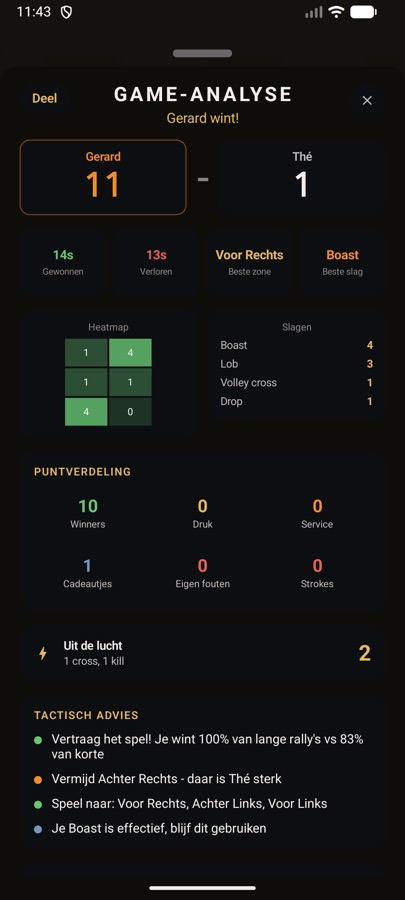
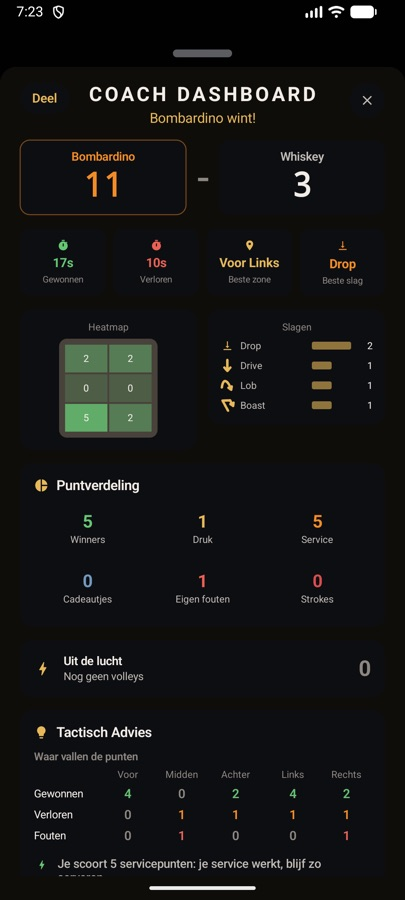
chore: build 16, release notes and manual for this build

diff --git a/website/handleiding/android.html b/website/handleiding/android.html
@@ -76,9 +76,9 @@
         <p class="where">Elke rally vastleggen: wie scoort, hoe, waar en met welke slag</p>
 
         <h3>Een wedstrijd starten of hervatten</h3>
-        <p>Loopt er nog een wedstrijd, dan zie je eerst <span class="ui">Wedstrijd hervatten</span> met de stand. Kies <span class="ui">Hervatten</span>, of <span class="ui">Nieuwe wedstrijd</span> (de oude wordt dan als afgebroken bewaard).</p>
+        <p>Loopt er nog een wedstrijd, dan vraagt de app eerst <span class="ui">Wedstrijd hervatten?</span> met de stand. Kies <span class="ui">Hervatten</span>, <span class="ui">Nieuwe wedstrijd</span> (de oude komt als incompleet in Afgeronde wedstrijden) of <span class="ui">Annuleren</span>.</p>
         <ol>
-          <li>Vul bij <span class="ui">Speler 1</span> en <span class="ui">Speler 2</span> een naam in, of tik op <span class="ui">Kies speler</span> om een opgeslagen speler te kiezen. Je ziet dan meteen de aandachtspunten van die speler. Alleen gekozen spelers kunnen <a href="#badges">badges</a> verdienen.</li>
+          <li>Vul bij <span class="ui">Speler 1</span> en <span class="ui">Speler 2</span> een naam in, of tik op <span class="ui">Kies speler</span> om een opgeslagen speler te kiezen (met <span class="ui">Nieuwe speler</span> voeg je er direct een toe). In de coachmodus zie je meteen de aandachtspunten van die speler. Alleen gekozen spelers kunnen <a href="#badges">badges</a> verdienen. Met het spelersicoon rechtsboven bewerk je je spelers.</li>
           <li>Kies bij <span class="ui">Wie serveert eerst?</span> de serveerder.</li>
           <li>Kom je later binnen? Tik op <span class="ui">Later instappen?</span> en vul met − en + in hoeveel games ieder al gewonnen heeft.</li>
           <li>Tik op <span class="ui">Start</span>. Er wordt gespeeld tot drie gewonnen games (best of 5).</li>
@@ -102,15 +102,16 @@
         </ul>
 
         <h3>Game en wedstrijd klaar</h3>
-        <p>Na een game verschijnen <span class="ui">Analyse</span> en <span class="ui">Volgende game</span>. Na de laatste game zie je de winnaar, de verdiende <strong>badges</strong>, <span class="ui">Analyse</span>, <span class="ui">Deel score</span> (Kort, Scorekaart of Verslag, bijvoorbeeld voor WhatsApp) en <span class="ui">Klaar</span>.</p>
+        <p>Aan het eind van een game zie je de uitslag met de knoppen <span class="ui">Analyse</span>, <span class="ui">Deel score</span>, <span class="ui">Volgende game</span>, <span class="ui">Undo laatste punt</span> en <span class="ui">Stop wedstrijd</span>. Na de laatste game zie je ook welke <strong>badges</strong> er verdiend zijn (tik erop voor uitleg) en start je met <span class="ui">Nieuwe wedstrijd</span> een volgende.</p>
+        <p><span class="ui">Deel score</span> maakt een tekst voor bijvoorbeeld WhatsApp: <em>Kort</em>, <em>Scorekaart</em> of <em>Verslag</em>, met een voorbeeld zoals het in de chat verschijnt.</p>
 
         <h3>Analyse en AI Coach</h3>
-        <p>De game-analyse toont per speler en per game: gemiddelde rallyduur bij winst en verlies, beste zone en slag, een <strong>heatmap</strong> van de baan, de meest gebruikte slagen (een volley staat apart, zoals <em>Volley cross</em>), de puntverdeling, het aantal punten <strong>uit de lucht</strong> en tactisch advies. Met <span class="ui">Deel</span> stuur je een samenvatting.</p>
+        <p>Het <strong>coach dashboard</strong> toont per speler en per game: gemiddelde rallyduur bij winst en verlies, beste zone en slag, een <strong>heatmap</strong> van de baan, de meest gebruikte slagen (een volley staat apart, zoals <em>Volley cross</em>), de puntverdeling, het aantal punten <strong>uit de lucht</strong> en tactisch advies. Met <span class="ui">Deel</span> stuur je een samenvatting.</p>
         <p>Bovenaan het tactisch advies staat <strong>Waar vallen de punten</strong>: per rij (voor, midden, achter) en kant (links, rechts) hoeveel punten de speler won, verloor en zelf weggaf. Daarop is het advies gebaseerd: hooguit 5 regels, met eerst wat de meeste punten kan opleveren. Zie je hetzelfde ook in een eerdere game, dan staat er bijvoorbeeld <em>Net als in game 1</em>.</p>
         <p>Heb je een OpenAI-sleutel ingesteld, dan geeft <span class="ui">Vraag AI Coach om advies</span> een uitgebreide analyse. Er gaan geen namen mee, alleen cijfers. De app kiest zelf het goedkoopste model dat met je sleutel beschikbaar is. Zonder sleutel zie je dit blok niet.</p>
 
         <h3>Stoppen</h3>
-        <p>Tik op <span class="ui">Stop</span> en kies:</p>
+        <p>Tik op <span class="ui">Stop</span>. Is de wedstrijd klaar, dan wordt hij bewaard. Is er nog niets gespeeld, dan verdwijnt hij. Anders kies je:</p>
         <ul>
           <li><span class="ui">Bewaar en ga later verder</span>: de wedstrijd blijft bewaard, je gaat later verder via de Coach-tegel.</li>
           <li><span class="ui">Opslaan als incompleet</span>: de wedstrijd komt in <a href="#wedstrijden">Afgeronde wedstrijden</a> met het label INCOMPLEET.</li>
@@ -134,7 +135,7 @@
         <h2><span class="icon">🏆</span>Scheidsrechter</h2>
         <p class="where">Snel en officieel scoren, met de serviceregels</p>
         <h3>Starten of hervatten</h3>
-        <p>Net als bij Coach: een lopende wedstrijd kun je <span class="ui">Hervatten</span>. Voor een nieuwe vul je de namen in of gebruik je <span class="ui">Kies speler</span>, kies je wie eerst serveert en eventueel <span class="ui">Later instappen?</span>, en tik je op <span class="ui">Start</span>.</p>
+        <p>Net als bij Coach: een lopende wedstrijd kun je <span class="ui">Hervatten</span>. Voor een nieuwe vul je de namen in of gebruik je <span class="ui">Kies speler</span>, kies je wie eerst serveert en eventueel <span class="ui">Later instappen?</span>, en tik je op <span class="ui">Start scheidsrechter</span>.</p>
         <h3>Scoren</h3>
         <ul>
           <li><strong>Tik op de grote score</strong> (<em>tik = punt</em>) van wie de rally wint.</li>
@@ -145,7 +146,7 @@
           <li>Met het deel-icoon rechtsboven deel je de tussenstand.</li>
         </ul>
         <h3>Game en wedstrijd klaar</h3>
-        <p>Na een game tik je op <span class="ui">Volgende game</span>. Na de wedstrijd zie je de winnaar, de verdiende badges en <span class="ui">Deel score</span>.</p>
+        <p>Na een game zie je de stand en duur, met <span class="ui">Volgende game</span>, <span class="ui">Undo laatste punt</span> en <span class="ui">Bekijk stand</span>. Na de wedstrijd: de winnaar, de uitslag per game, verdiende badges, <span class="ui">Deel score</span> en <span class="ui">Sluiten</span>. Undo werkt na hervatten ook weer voor de lopende game.</p>
         <div class="note">Na elke rally wordt de wedstrijd bewaard. Sluit je halverwege, dan ga je later verder via de Scheidsrechter-tegel.</div>
       </div>
       <div class="shots">
@@ -160,10 +161,11 @@
         <p class="where">Alles terugkijken, delen en opruimen</p>
         <ul>
           <li>Filter op <span class="ui">Alles</span>, <span class="ui">Coach</span> of <span class="ui">Scheidsrechter</span>, en via <span class="ui">Alle spelers</span> op één speler.</li>
-          <li>Tik op een coachwedstrijd of op <span class="ui">Bekijk analyse</span> voor de game-analyse.</li>
+          <li>Coach- en scheidsrechterwedstrijden staan onder eigen kopjes, met de winnaar, de uitslag per game en een medaille als er een badge is verdiend.</li>
+          <li>Tik op een coachwedstrijd of op <span class="ui">Bekijk analyse</span> voor het coach dashboard.</li>
           <li><span class="ui">Delen</span> maakt een tekst voor bijvoorbeeld WhatsApp: kort, scorekaart of verslag.</li>
           <li>Niet afgemaakt? Dan staat er <strong>INCOMPLEET</strong> bij en vul je met <span class="ui">Uitslag aanvullen</span> in wie de resterende games won.</li>
-          <li>Met de prullenbak verwijder je een wedstrijd. Verdiende badges worden dan als verwijderd gemarkeerd.</li>
+          <li>Met de prullenbak verwijder je een wedstrijd.</li>
         </ul>
         <p>Een lopende wedstrijd vind je niet hier, maar via de Coach- of Scheidsrechter-tegel. Back-ups maak en zet je terug in <a href="#instellingen">Instellingen</a>.</p>
       </div>
@@ -179,16 +181,18 @@
         <p class="where">Je vaste spelers, met foto, aandachtspunten en badges</p>
         <h3>Spelers toevoegen en bewerken</h3>
         <ul>
-          <li>Tik op <span class="ui">Toevoegen</span>: een foto (<span class="ui">Kies foto</span>), naam, <strong>coaching focus</strong> (zoals Backhand of Conditie) en notities, dan <span class="ui">Opslaan</span>.</li>
-          <li>Het potlood bewerkt, de prullenbak verwijdert. Gespeelde wedstrijden blijven bewaard.</li>
+          <li>De app begint met twee voorbeeldspelers, <strong>Bombardino</strong> en <strong>Whiskey</strong>, om meteen te proberen. Verwijder ze gerust; ze komen niet terug.</li>
+          <li>Tik op <span class="ui">Toevoegen</span>: tik op de avatar voor een foto, vul naam, <strong>coaching focus</strong> (zoals Backhand of Conditie) en notities in, dan <span class="ui">Opslaan</span>.</li>
+          <li>Het potlood bewerkt, de prullenbak verwijdert; lang indrukken geeft hetzelfde menu. Gespeelde wedstrijden blijven bewaard.</li>
+          <li>De medaille rechtsboven toont alle badges.</li>
           <li>Tik op een speler om de badges van die speler te zien.</li>
         </ul>
         <h3>Een heel team importeren</h3>
         <p>Tik op <span class="ui">Team</span> en plak de teamlink die je hebt gekregen (<em>https://squashanalyzer.com/teams/…</em>), of tik op <span class="ui">Kies zip-bestand</span> voor een team-zip op je telefoon. Spelers met dezelfde naam worden bijgewerkt, nieuwe worden toegevoegd.</p>
         <h3>Badges van een speler</h3>
-        <p>Je ziet hoeveel badges de speler verdiende en alle 31 badges: verdiende in kleur met hoe vaak, de rest grijs met hoe je ze verdient. Tik op een verdiende badge voor de momenten (tegen wie en wanneer); met <span class="ui">Verwijder</span> haal je er een weg.</p>
+        <p>Je ziet hoeveel badges de speler verdiende en alle 31 badges: verdiende in kleur met hoe vaak, de rest grijs met hoe je ze verdient. Tik op een badge voor de momenten (tegen wie en wanneer); veeg een moment naar links om het te verwijderen.</p>
         <h3>Spelerskaart delen en ontvangen</h3>
-        <p>Tik in de badges van een speler op <span class="ui">Deel kaart</span>: je deelt een link naar de kaart. Krijg je zelf zo'n link, open hem dan op je telefoon. De app vraagt of je de kaart koppelt aan een <span class="ui">Nieuwe speler</span> of aan een bestaande speler. Deel een kaart alleen met toestemming van de speler.</p>
+        <p>Tik onderaan de badges van een speler op <span class="ui">Deel kaart</span>: je deelt een afbeelding met een link naar de kaart. Krijg je zelf zo'n link, open hem dan op je telefoon. De app vraagt of je de kaart koppelt aan een <span class="ui">Nieuwe speler</span> of aan een bestaande speler. Deel een kaart alleen met toestemming van de speler.</p>
       </div>
       <div class="shots">
         <figure><img src="img/android/spelers.jpg" alt="Spelerslijst" loading="lazy"><figcaption>Spelers</figcaption></figure>

diff --git a/website/handleiding/iphone.html b/website/handleiding/iphone.html
@@ -63,7 +63,7 @@
           <li>Open <a href="#instellingen">Instellingen</a> en plak bij <span class="ui">Mijn team</span> de openbare teamlink (zoals <em>https://sbn.toernooi.nl/league/…/team/…</em>).</li>
           <li>Tik op <span class="ui">Bewaar teamlink</span>. De kaart verschijnt op het beginscherm.</li>
         </ol>
-        <p>De kaart toont je <strong>stand</strong>, <strong>gespeelde wedstrijden</strong>, <strong>punten</strong> en de volgende wedstrijd. Tik op de kaart voor het hele overzicht: de stand van de poule, alle wedstrijden met uitslag en de spelers van je team.</p>
+        <p>De kaart toont je <strong>stand</strong>, <strong>gespeelde wedstrijden</strong>, <strong>punten</strong> en de volgende wedstrijd met datum. Tik op de kaart voor het hele overzicht: de stand van de poule, alle wedstrijden met uitslag en de spelers van je team.</p>
         <p>Lukt ophalen even niet, dan zie je de laatst opgehaalde stand of een knop <span class="ui">Opnieuw</span>.</p>
       </div>
       <div class="shots"></div>
@@ -112,8 +112,8 @@
 
         <h3>Stoppen en hervatten</h3>
         <ul>
-          <li>Tik op <span class="ui">Stop</span>. Is er nog niets gespeeld, dan verdwijnt de wedstrijd. Anders kies je: <span class="ui">Opslaan als incompleet</span>, <span class="ui">Uitslag aanvullen</span> (vul in wie de resterende games won), <span class="ui">Niet opslaan</span> of <span class="ui">Doorspelen</span>.</li>
-          <li>Sluit je de app midden in een wedstrijd, dan vraagt hij bij de volgende start <span class="ui">Wedstrijd hervatten?</span></li>
+          <li>Tik op <span class="ui">Stop</span>. Is de wedstrijd klaar, dan wordt hij bewaard. Is er nog niets gespeeld, dan verdwijnt hij. Anders kies je: <span class="ui">Bewaar en ga later verder</span>, <span class="ui">Opslaan als incompleet</span>, <span class="ui">Uitslag aanvullen</span> (vul in wie de resterende games won; daarna start je een nieuwe wedstrijd), <span class="ui">Niet opslaan</span> of <span class="ui">Doorspelen</span>.</li>
+          <li>Tik je op de Coach-tegel terwijl er nog een wedstrijd loopt, dan vraagt de app <span class="ui">Wedstrijd hervatten?</span>: <span class="ui">Hervatten</span>, <span class="ui">Nieuwe wedstrijd</span> (de oude komt als incompleet in Afgeronde wedstrijden) of <span class="ui">Annuleren</span>.</li>
         </ul>
       </div>
       <div class="shots">
@@ -142,7 +142,8 @@
           <li>Met het deel-icoon rechtsboven deel je de tussenstand.</li>
         </ul>
         <h3>Game en wedstrijd klaar</h3>
-        <p>Na een game zie je de stand en duur, met <span class="ui">Volgende game</span>, <span class="ui">Undo laatste punt</span> en <span class="ui">Bekijk stand</span>. Na de wedstrijd: de winnaar, verdiende badges, <span class="ui">Deel score</span> en <span class="ui">Sluiten</span>.</p>
+        <p>Na een game zie je de stand en duur, met <span class="ui">Volgende game</span>, <span class="ui">Undo laatste punt</span> en <span class="ui">Bekijk stand</span>. Na <span class="ui">Bekijk stand</span> ga je verder met de knop <span class="ui">Volgende game</span> onder de scores. Na de wedstrijd: de winnaar, verdiende badges, <span class="ui">Deel score</span> en <span class="ui">Sluiten</span>.</p>
+        <p>Sluit je halverwege, dan vraagt de Scheidsrechter-tegel later <span class="ui">Wedstrijd hervatten?</span>. Undo werkt na hervatten ook weer voor de lopende game.</p>
         <div class="note">Een scheidsrechterwedstrijd wordt bewaard zodra hij klaar is. Sluit je halverwege, dan gaat hij verloren.</div>
       </div>
       <div class="shots">
@@ -181,6 +182,7 @@
         <p class="where">Je vaste spelers, met foto, aandachtspunten en badges</p>
         <h3>Spelers toevoegen en bewerken</h3>
         <ul>
+          <li>De app begint met twee voorbeeldspelers, <strong>Bombardino</strong> en <strong>Whiskey</strong>, om meteen te proberen. Verwijder ze gerust; ze komen niet terug.</li>
           <li>Tik op <span class="ui">+</span> voor een nieuwe speler: naam, foto, <strong>coaching focus</strong> (zoals Backhand of Conditie) en notities.</li>
           <li>Het potlood bewerkt, de prullenbak verwijdert. Gespeelde wedstrijden blijven bewaard.</li>
           <li>Tik op een speler om de badges van die speler te zien.</li>
@@ -188,7 +190,7 @@
         <h3>Een heel team importeren</h3>
         <p>Tik op het importeer-icoon en kies:</p>
         <ul>
-          <li><span class="ui">Via link</span> (vanaf de volgende versie): plak de teamlink die je hebt gekregen (<em>https://squashanalyzer.com/teams/…</em>) en tik op <span class="ui">Importeren</span>.</li>
+          <li><span class="ui">Via link</span>: plak de teamlink die je hebt gekregen (<em>https://squashanalyzer.com/teams/…</em>) en tik op <span class="ui">Importeren</span>.</li>
           <li><span class="ui">Uit bestand (zip)</span>: kies een team-zip uit de Bestanden-app.</li>
         </ul>
         <p>Spelers met dezelfde naam worden bijgewerkt, nieuwe worden toegevoegd.</p>
@@ -219,11 +221,11 @@
         <h2><span class="icon">⚙</span>Instellingen</h2>
         <p class="where">Tandwiel rechtsboven op het beginscherm of in het coachscherm</p>
         <ul>
-          <li><strong>Handleiding</strong> (vanaf de volgende versie): opent deze pagina.</li>
+          <li><strong>Handleiding</strong>: opent deze pagina.</li>
           <li><strong>Baanindeling</strong>: kies <span class="ui">6 vakken</span> (standaard) of <span class="ui">9 vakken</span> met een middenkolom.</li>
-          <li><strong>Mijn team</strong>: plak je teamlink van sbn.toernooi.nl en tik op <span class="ui">Bewaar teamlink</span>.</li>
+          <li><strong>Mijn team</strong>: plak je teamlink van sbn.toernooi.nl en tik op <span class="ui">Bewaar teamlink</span>; alleen een geldige link wordt bewaard. <span class="ui">Verwijder</span> haalt hem weg.</li>
           <li><strong>Back-up</strong>: <span class="ui">Wekelijkse back-up naar iCloud</span> staat standaard aan. Eén keer per week, als je de app na gebruik wegzet, komt er een back-up in iCloud Drive; de 7 nieuwste blijven bewaard.</li>
-          <li><strong>AI Coach</strong>: vul je eigen OpenAI API-sleutel in en tik op <span class="ui">Bewaar API Key</span>. De sleutel staat veilig in de iPhone-sleutelhanger. Een analyse kost ongeveer € 0,01. Een leeg veld bewaren verwijdert de sleutel.</li>
+          <li><strong>AI Coach</strong>: vul je eigen OpenAI API-sleutel in en tik op <span class="ui">Bewaar API Key</span>. De sleutel staat veilig in de iPhone-sleutelhanger. Een analyse kost ongeveer € 0,01 (de app kiest het goedkoopste beschikbare model). Een leeg veld bewaren verwijdert de sleutel. Lukt het advies niet, tik dan op <span class="ui">Opnieuw proberen</span>.</li>
         </ul>
       </div>
       <div class="shots">

diff --git a/release-notes/2.2-16.md b/release-notes/2.2-16.md
@@ -1,0 +1,26 @@
+Squash Analyzer 2.2 (build 16) — "Bombardino en Whiskey doen mee"
+
+Hoi Squashteam! Deze build is vooral gelijktrekken: iPhone en Android doen nu bijna overal precies hetzelfde. Daardoor is ook op de iPhone een en ander handiger geworden.
+
+NIEUW: TWEE VOORBEELDSPELERS
+• Na de update staan Bombardino en Whiskey bij Spelers, met foto. Zo kun je meteen een wedstrijd met "Kies speler" proberen en badges zien. Weg ermee? Verwijder ze gewoon; ze komen niet terug.
+
+NIEUW: LATER VERDERGAAN BIJ COACH
+• Stop heeft nu ook "Bewaar en ga later verder".
+• Tik je later op de Coach-tegel, dan vraagt de app "Wedstrijd hervatten?": Hervatten, Nieuwe wedstrijd (de oude komt als incompleet in Afgeronde wedstrijden) of Annuleren. De vraag bij het opstarten van de app is daarmee verdwenen.
+
+SCHEIDSRECHTER
+• Undo werkt nu ook na het hervatten van een wedstrijd.
+• Na "Bekijk stand" staat er een knop "Volgende game" onder de scores (je zat daar eerst vast).
+• Na "Deel score" komt het eindvenster terug.
+
+INSTELLINGEN EN MIJN TEAM
+• De teamlink wordt alleen bewaard als hij klopt, en er is een knop "Verwijder".
+• De Mijn team-kaart toont de datum van de volgende wedstrijd en laadt opnieuw als je een andere link kiest.
+• AI Coach kiest zelf het goedkoopste beschikbare model, en bij een fout staat er "Opnieuw proberen".
+
+Onder de motorkap is weer veel gedeeld met de Android-versie (het eindvenster van een game en de scorelijn), dus kijk extra goed of alles nog werkt zoals je gewend bent.
+
+Probeer vooral: stop een coachwedstrijd met "Bewaar en ga later verder" en ga via de Coach-tegel verder, scheidsrechter een wedstrijd en gebruik halverwege Sluiten, hervatten en Undo, en speel een potje met Bombardino tegen Whiskey.
+
+Iets kapot of raar? Stuur een screenshot via TestFlight (schud je telefoon) of app Gerd-Jan. Veel speelplezier!
